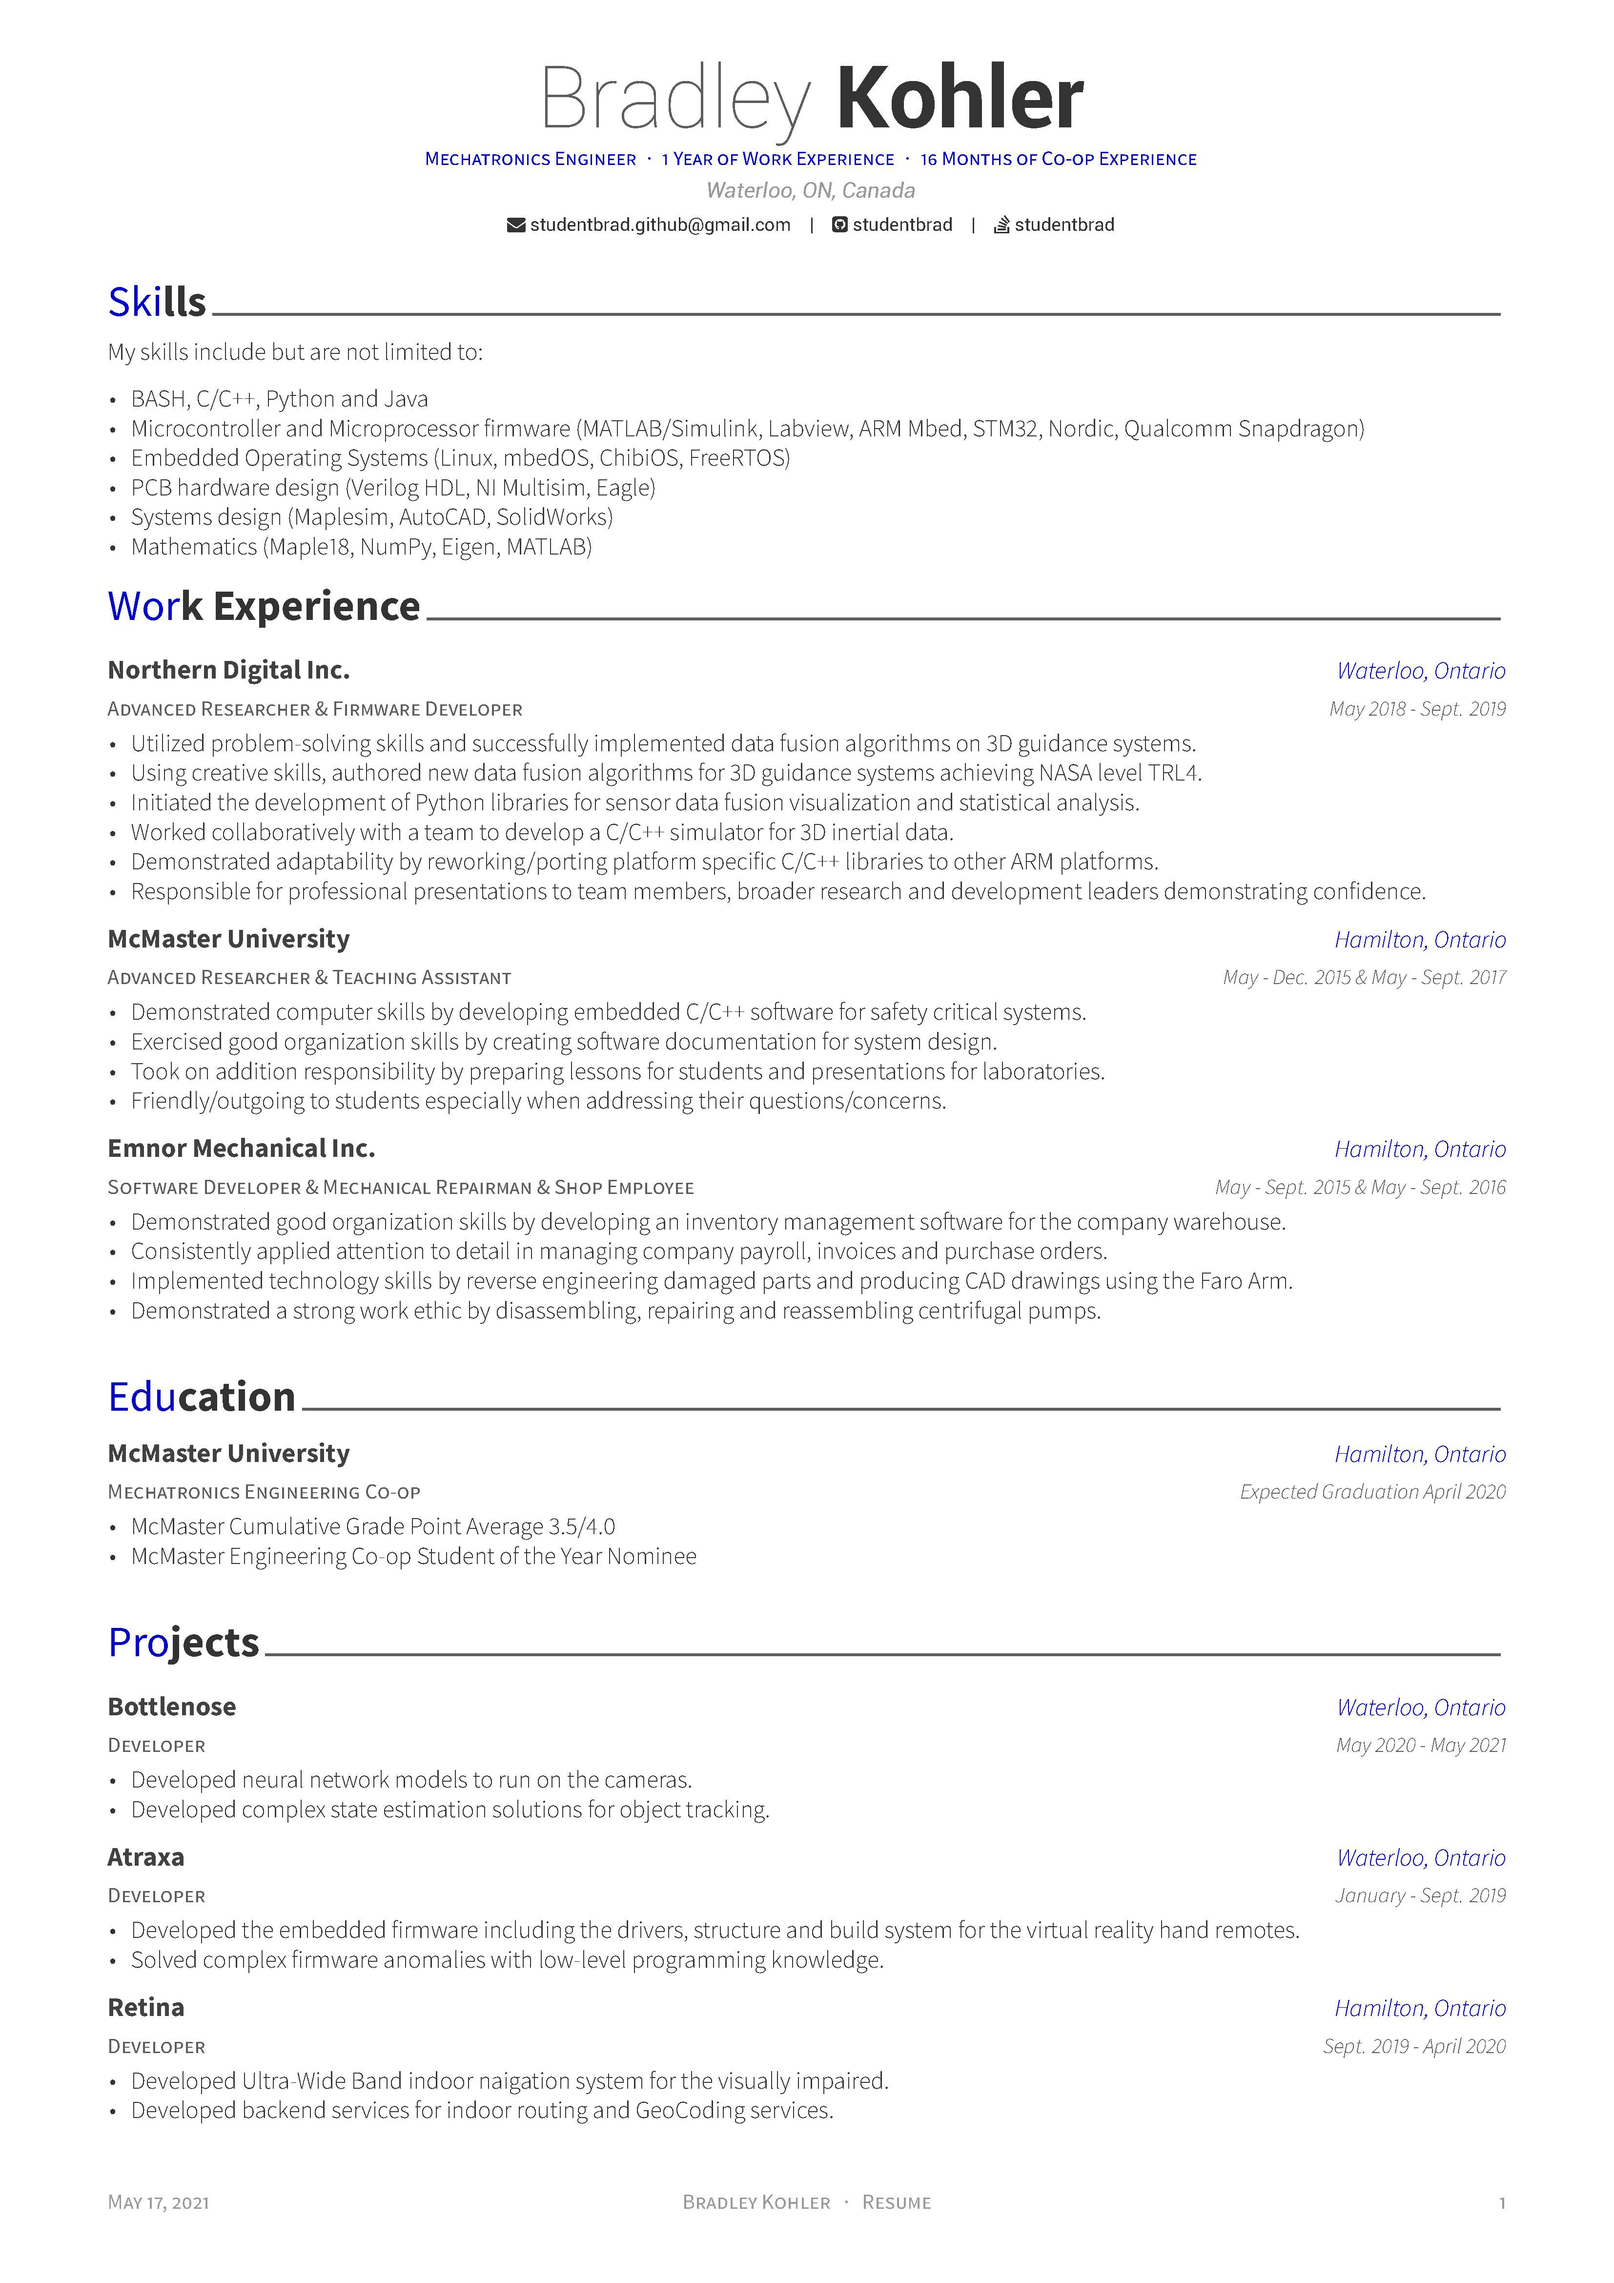
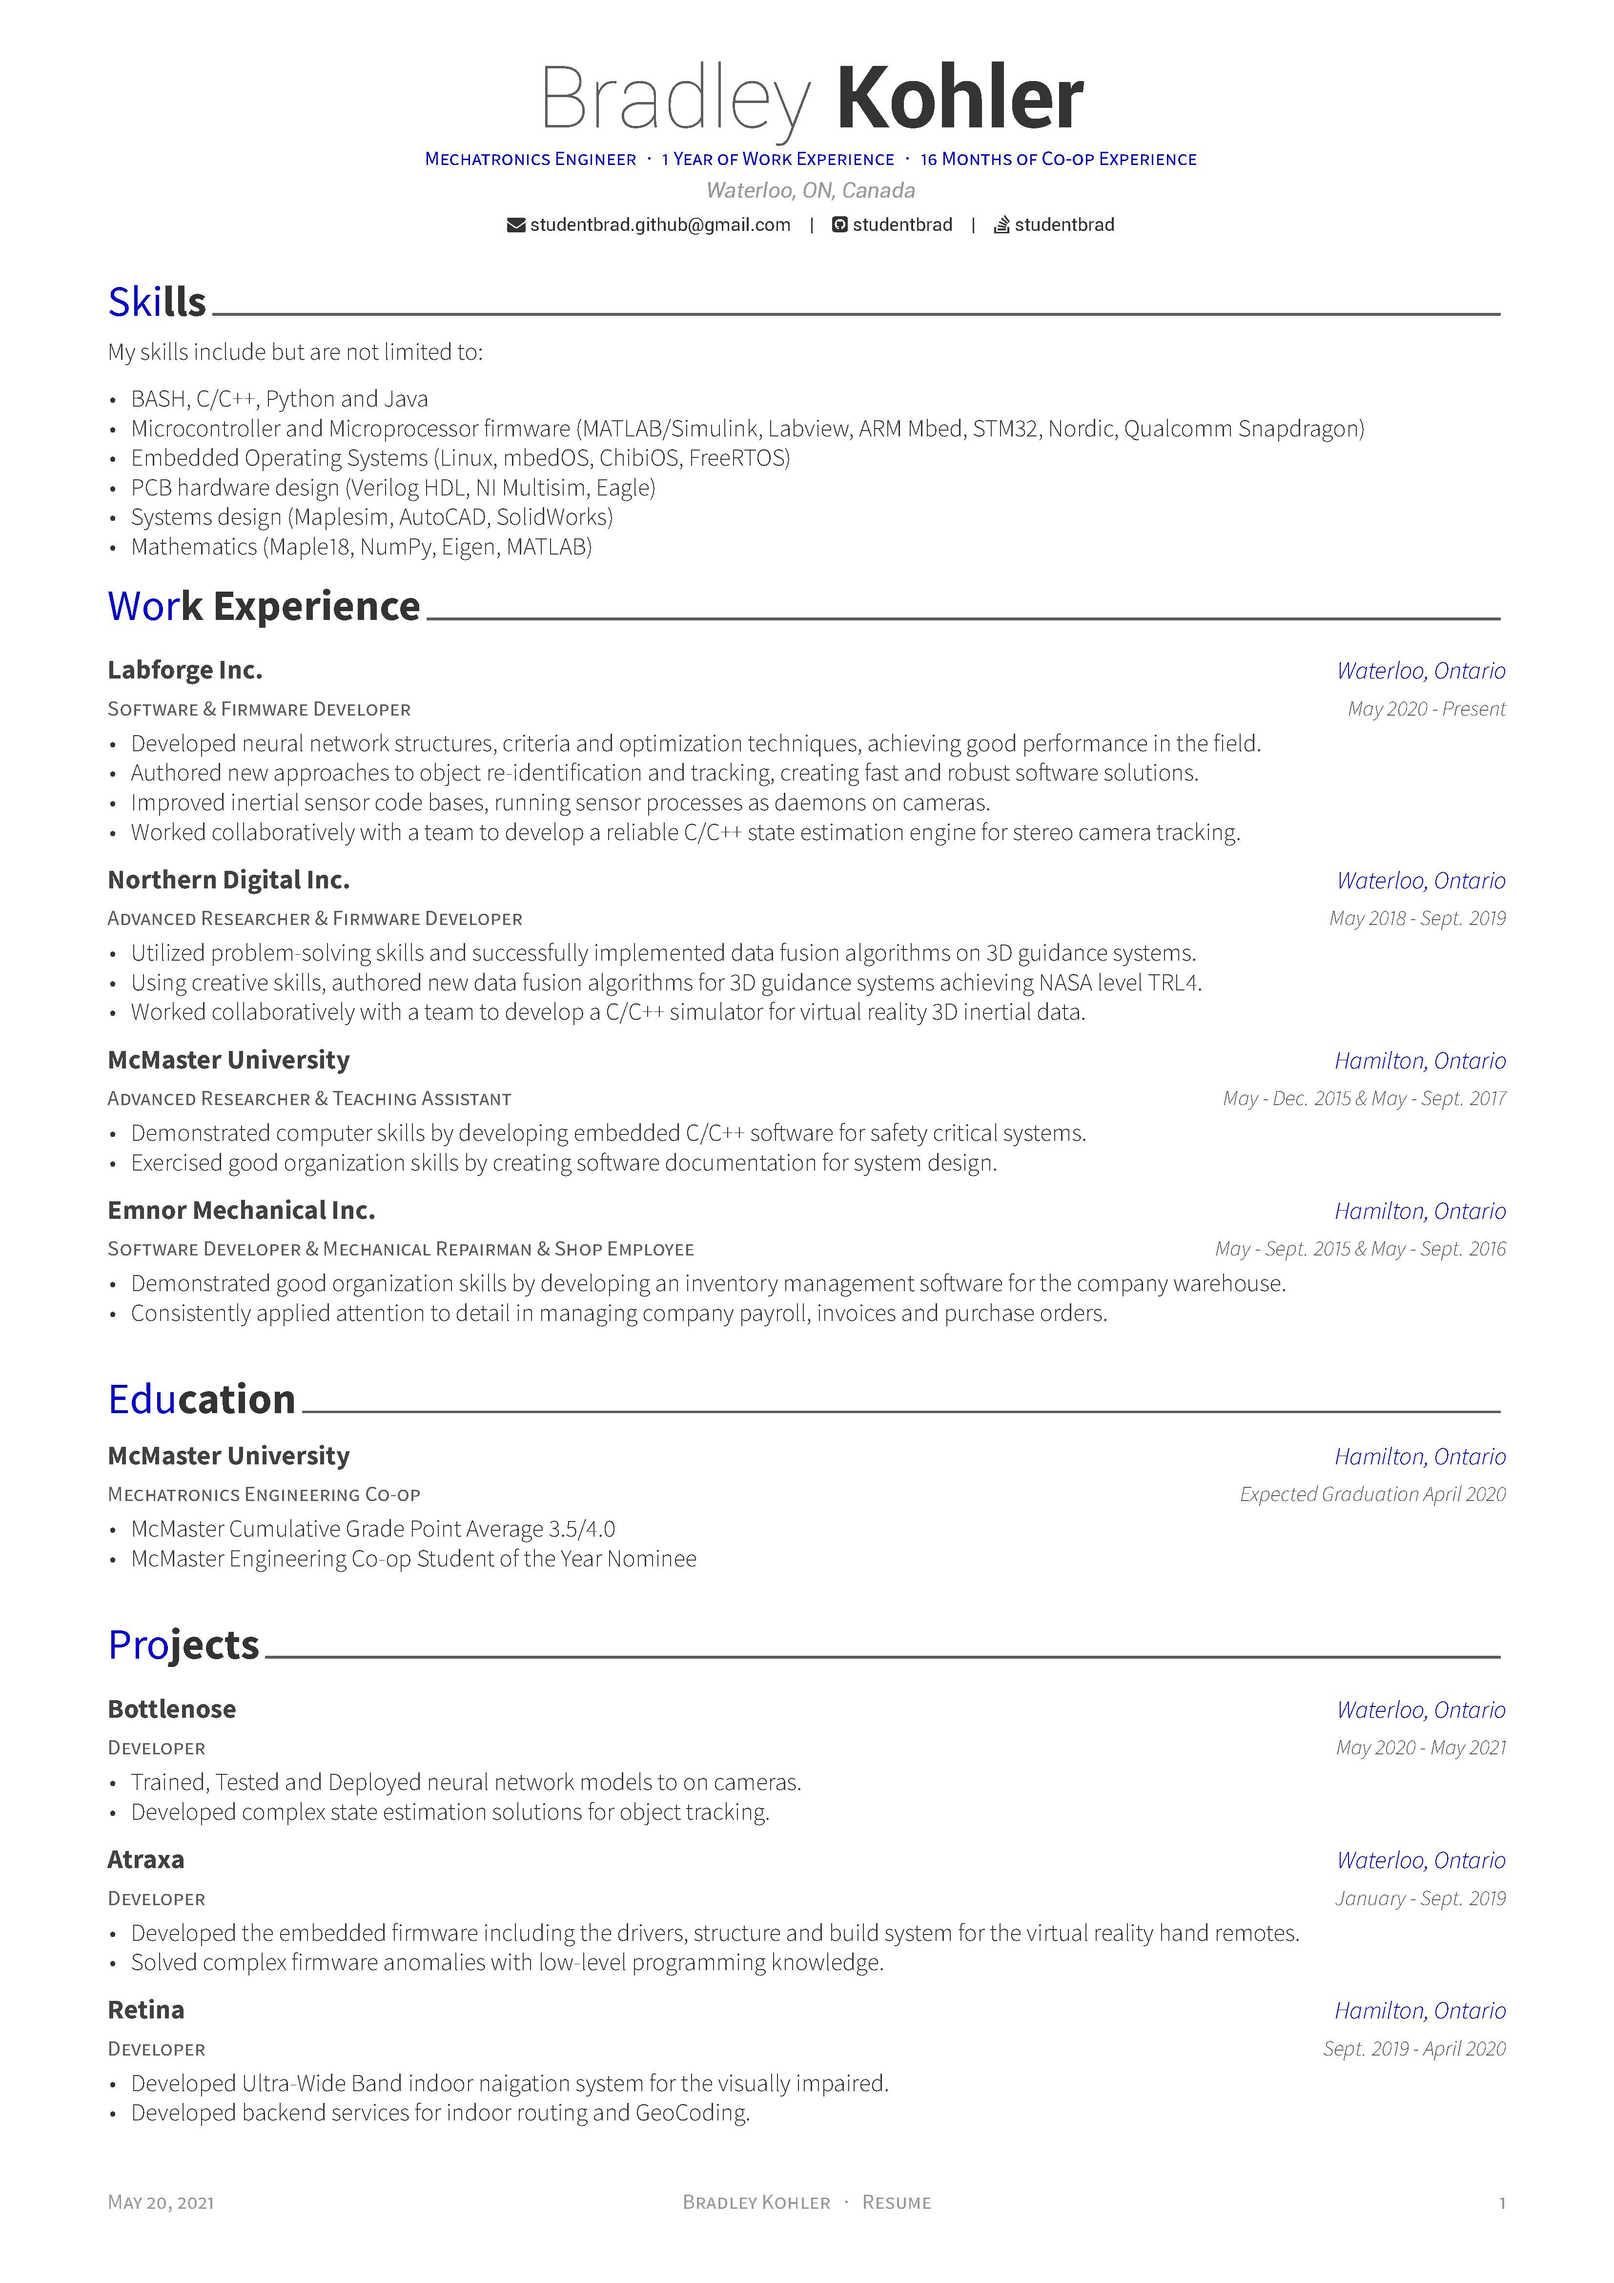
updated resume

diff --git a/personal_resume/experience.tex b/personal_resume/experience.tex
@@ -10,6 +10,21 @@
 
 %---------------------------------------------------------
   \cventry
+    {Software \& Firmware Developer} % Job title
+    {Labforge Inc.} % Organization
+    {Waterloo, Ontario} % Location
+    {May 2020 - Present} % Date(s)
+    {
+      \begin{cvitems} % Description(s) of tasks/responsibilities
+        \item {Developed neural network structures, criteria and optimization techniques, achieving good performance in the field.}
+        \item {Authored new approaches to object re-identification and tracking, creating fast and robust software solutions.}
+        \item {Improved inertial sensor code bases, running sensor processes as daemons on cameras.}
+        \item {Worked collaboratively with a team to develop a reliable C/C++ state estimation engine for stereo camera tracking.}
+      \end{cvitems}
+    }
+
+%---------------------------------------------------------
+  \cventry
     {Advanced Researcher \& Firmware Developer} % Job title
     {Northern Digital Inc.} % Organization
     {Waterloo, Ontario} % Location
@@ -18,10 +33,10 @@
       \begin{cvitems} % Description(s) of tasks/responsibilities
         \item {Utilized problem-solving skills and successfully implemented data fusion algorithms on 3D guidance systems.}
         \item {Using creative skills, authored new data fusion algorithms for 3D guidance systems achieving NASA level TRL4.}
-        \item {Initiated the development of Python libraries for sensor data fusion visualization and statistical analysis.}
-        \item {Worked collaboratively with a team to develop a C/C++ simulator for 3D inertial data.}
-        \item {Demonstrated adaptability by reworking/porting platform specific C/C++ libraries to other ARM platforms.}
-        \item {Responsible for professional presentations to team members, broader research and development leaders demonstrating confidence.}
+        \item {Worked collaboratively with a team to develop a C/C++ simulator for virtual reality 3D inertial data.}
+%        \item {Developed Python libraries for sensor data fusion visualization and statistical analysis.}
+%        \item {Demonstrated adaptability by reworking/porting platform specific C/C++ libraries to other ARM platforms.}
+%        \item {Responsible for professional presentations to team members, broader research and development leaders demonstrating confidence.}
       \end{cvitems}
     }
 
@@ -35,8 +50,8 @@
       \begin{cvitems} % Description(s) of tasks/responsibilities
         \item {Demonstrated computer skills by developing embedded C/C++ software for safety critical systems.}
         \item {Exercised good organization skills by creating software documentation for system design.}
-        \item {Took on addition responsibility by preparing lessons for students and presentations for laboratories.}
-        \item {Friendly/outgoing to students especially when addressing their questions/concerns.}
+%        \item {Took on addition responsibility by preparing lessons for students and presentations for laboratories.}
+%        \item {Friendly/outgoing to students especially when addressing their questions/concerns.}
       \end{cvitems}
     }
 
@@ -50,8 +65,8 @@
       \begin{cvitems} % Description(s) of tasks/responsibilities
         \item {Demonstrated good organization skills by developing an inventory management software for the company warehouse.}
         \item {Consistently applied attention to detail in managing company payroll, invoices and purchase orders.}
-        \item {Implemented technology skills by reverse engineering damaged parts and producing CAD drawings using the Faro Arm.}
-        \item {Demonstrated a strong work ethic by disassembling, repairing and reassembling centrifugal pumps.}
+%        \item {Implemented technology skills by reverse engineering damaged parts and producing CAD drawings using the Faro Arm.}
+%        \item {Demonstrated a strong work ethic by disassembling, repairing and reassembling centrifugal pumps.}
       \end{cvitems}
     }
 

diff --git a/personal_resume/projects.tex b/personal_resume/projects.tex
@@ -16,7 +16,7 @@
     {May 2020 - May 2021} % Date(s)
     {
       \begin{cvitems} % Description(s) of experience/contributions/knowledge
-        \item {Developed neural network models to run on the cameras.}
+        \item {Trained, Tested and Deployed neural network models to on cameras.}
         \item {Developed complex state estimation solutions for object tracking.}
       \end{cvitems}
     }
@@ -43,7 +43,7 @@
     {
       \begin{cvitems} % Description(s) of experience/contributions/knowledge
         \item {Developed Ultra-Wide Band indoor naigation system for the visually impaired.}
-        \item {Developed backend services for indoor routing and GeoCoding services.}
+        \item {Developed backend services for indoor routing and GeoCoding.}
       \end{cvitems}
     }
 
